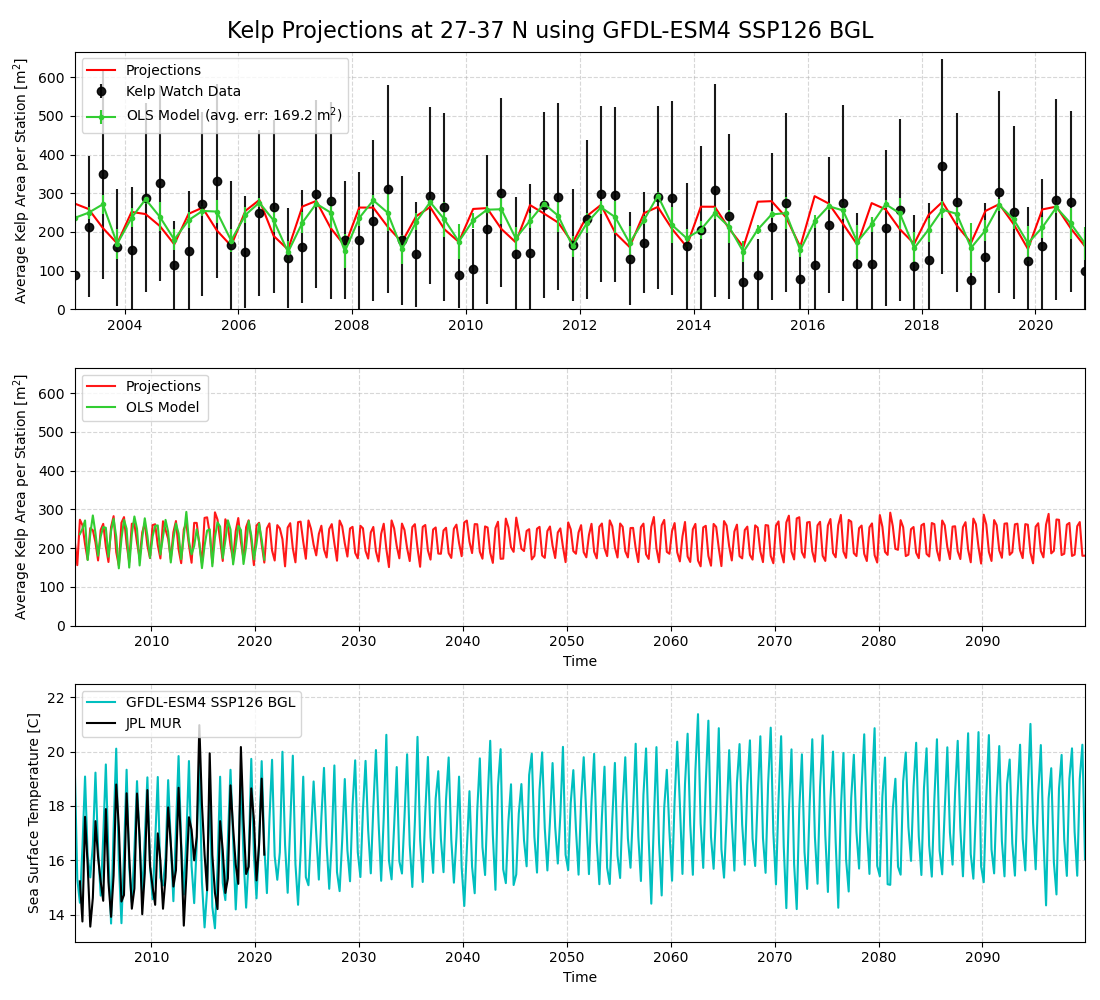
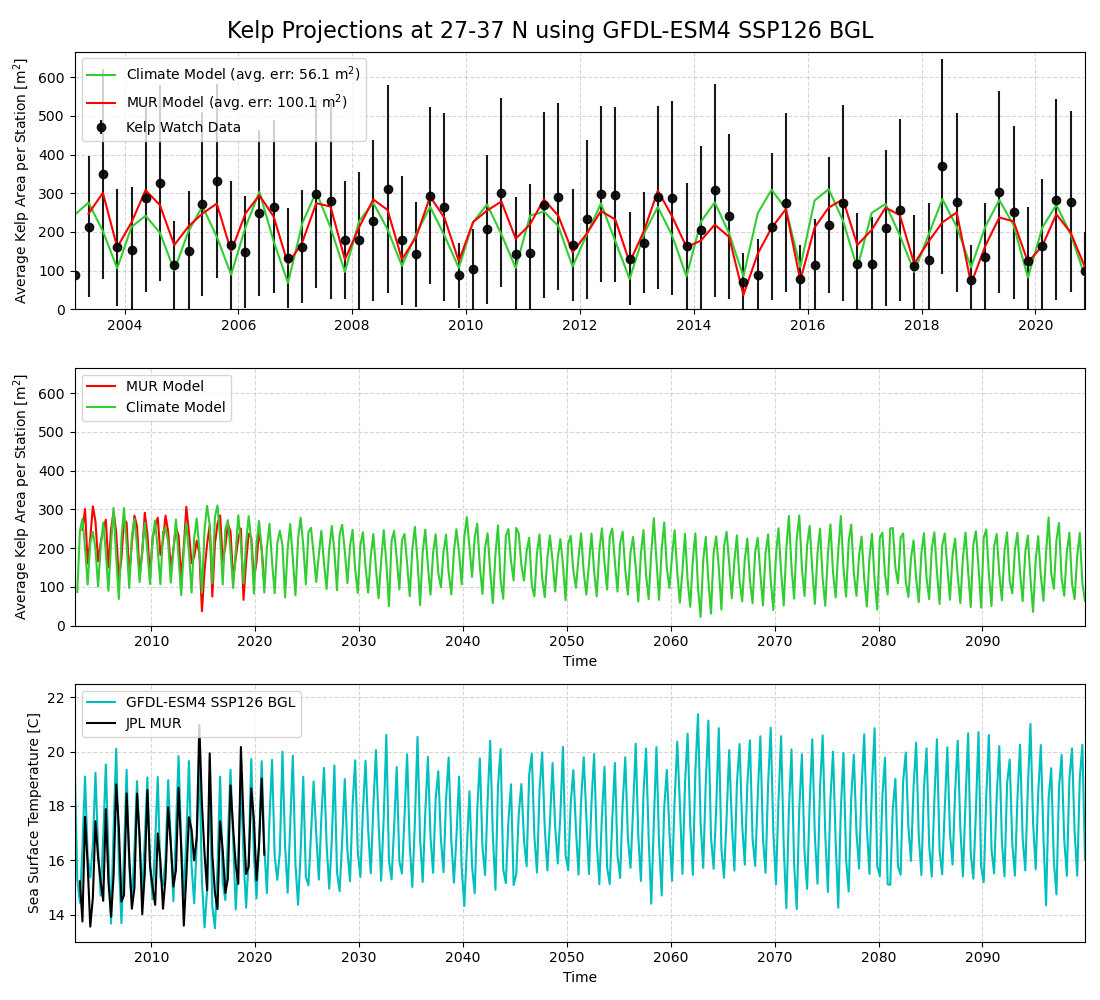
fixed netcdf file for projection

diff --git a/regressors_predict.py b/regressors_predict.py
@@ -1,12 +1,14 @@
 import pickle
 import argparse
 import numpy as np
-import statsmodels.api as sm
-import matplotlib.pyplot as plt
-from sklearn.neural_network import MLPRegressor
-from scipy.spatial import cKDTree
 import xarray as xr
 from tqdm import tqdm
+import statsmodels.api as sm
+import matplotlib.pyplot as plt
+from scipy.spatial import cKDTree
+from scipy.interpolate import interp1d
+from sklearn.neural_network import MLPRegressor
+from create_interpolated_sst_sim import NearestNeighbor
 
 if __name__ == "__main__":
     # argparse for input filepath
@@ -16,7 +18,7 @@ if __name__ == "__main__":
                         default="Data/kelp_metrics_27_37.pkl")
     parser.add_argument('-fs', '--file_path_sim', type=str, 
                         help='path to input metrics file', 
-                        default="Data/kelp_metrics_sim_27_37_CanESM5_ssp585_BGL.pkl")
+                        default="Data/kelp_metrics_sim_27_37_GFDL-ESM4_ssp585_BGL.pkl")
     #model type
     parser.add_argument('-m', '--model', type=str, 
                         help='model type (OLS or MLP)',
@@ -26,6 +28,12 @@ if __name__ == "__main__":
                         help='use sunlight as input feature')
     
     args = parser.parse_args()
+
+    # extract climate model, scenario, and scaling from file_path_sim
+    parts = args.file_path_sim.split('_')
+    climate_scenario = parts[-2] # ssp585
+    climate_model = parts[-3] # GFDL-ESM4
+    scaling = parts[-1].split('.')[0]
 
     # load data from disk
     with open(args.file_path, 'rb') as f:
@@ -47,30 +55,34 @@ if __name__ == "__main__":
 
     if args.sunlight:
         features = [
-            time, # days, 0-365*20
+            #time, # days, 0-365*20
             data['sunlight'], # SUNLIGHT
+            data['temp'] - 273.15,
             data['temp_lag']-273.15,
             data['temp_lag2']-273.15,
             np.ones(len(time)) # w_1 * x_1 + w_2 * x_2 + ... + w_n * x_n + b
         ]
 
         feature_names = [
-            'time',
+            #'time',
             'sunlight', # SUNLIGHT
+            'temp',
             'temp_lag',
             'temp_lag2',
             'bias'
         ]
     else:
         features = [
-            time, # days, 0-365*20
+            #time, # days, 0-365*20
+            data['temp'] - 273.15,
             data['temp_lag']-273.15,
             data['temp_lag2']-273.15,
             np.ones(len(time)) # w_1 * x_1 + w_2 * x_2 + ... + w_n * x_n + b
         ]
 
         feature_names = [
-            'time',
+            #'time',
+            'temp',
             'temp_lag',
             'temp_lag2',
             'bias'
@@ -101,30 +113,34 @@ if __name__ == "__main__":
 
         # construct features
         features = [
-            time_sim, # days
+            #time_sim, # days
             data_sim['sunlight'], # SUNLIGHT
+            data_sim['temp'],
             data_sim['temp_lag'],
             data_sim['temp_lag2'],
             np.ones(len(time_sim)) # w_1 * x_1 + w_2 * x_2 + ... + w_n * x_n + b
         ]
 
         feature_names = [
-            'time',
+            #'time',
             'sunlight', # SUNLIGHT
+            'temp',
             'temp_lag',
             'temp_lag2',
             'bias'
         ]
     else:
         features = [
-            time_sim, # days
+            #time_sim, # days
+            data_sim['temp'],
             data_sim['temp_lag'],
             data_sim['temp_lag2'],
             np.ones(len(time_sim)) # w_1 * x_1 + w_2 * x_2 + ... + w_n * x_n + b
         ]
 
         feature_names = [
-            'time',
+            #'time',
+            'temp',
             'temp_lag',
             'temp_lag2',
             'bias'
@@ -133,11 +149,11 @@ if __name__ == "__main__":
     X_test = np.array(features).T
 
     # remove nans
-    nanmask_test = np.isnan(data_sim['temp_lag']) | np.isnan(data_sim['temp_lag2'])
+    nanmask_test = np.isnan(data_sim['temp_lag']) | np.isnan(data_sim['temp_lag2']) | np.isnan(data_sim['temp'])
     X_test = X_test[~nanmask_test]
     time_sim = time_sim[~nanmask_test]
     time_sim_dt = time_sim_dt[~nanmask_test]
-    print(len(time_sim))
+    print(f"Samples: {len(X)} Train, {len(X_test)} Test")
 
     # # compute correlation coefficient
     # for i in range(X.shape[1]-1):
@@ -157,7 +173,9 @@ if __name__ == "__main__":
 
     if args.model.lower() == 'ols':
         # fit a linear model to the data with OLS
-        res = sm.OLS(y, X).fit()
+        #res = sm.OLS(y, X).fit()
+        # add some regularization
+        res = sm.OLS(y, X).fit_regularized(alpha=0.001, L1_wt=0.1)
         coeffs = res.params
         y_ols_train = np.dot(X, coeffs)
         y_ols_test = np.dot(X_test, coeffs)
@@ -232,6 +250,22 @@ if __name__ == "__main__":
     slope_test, intercept_test = np.polyfit(utime_test, mean_ols_test, 1)
     print(f"Slope: {slope_test:.5f} C / year")
 
+    # slope between lag_temperature and kelp
+    #slope_kelp, intercept_kelp = np.polyfit(np.roll(mean_sst_train-273.15, 1)[1:], mean_ols_train[1:], 1)
+    # mur trend
+    slope_kelp, intercept_kelp = np.polyfit(np.roll(mean_sst_train-273.15, 1)[1:], bmean[1:], 1)
+
+    print(f"Slope: {slope_kelp:.5f} m^2 / C")
+
+    # mean_sst_test
+    kelp_projection = mean_sst_test * slope_kelp  + intercept_kelp
+    kelp_train = (mean_sst_train-273.15) * slope_kelp + intercept_kelp
+
+    # MSE kelp + ols
+    mse_kelp = np.mean(np.abs(bmean - mean_ols_train))
+    mse_projection = np.mean(np.abs(bmean - kelp_projection[:72]))
+    mse_test = np.mean(np.abs(bmean - mean_ols_test[:72]))
+    mse_train = np.mean(np.abs(bmean - kelp_train))
 
     # plot the data
     fig, ax = plt.subplots(3, 1, figsize=(11, 10))
@@ -240,24 +274,24 @@ if __name__ == "__main__":
     lat = float(args.file_path_sim.split('_')[3])
     lon = float(args.file_path_sim.split('_')[4].split('.')[0])
     # extract type of model from fs
-    climate_model = args.file_path_sim.split('_')[-2]
-    climate_sim = args.file_path_sim.split('_')[-3]
-    scaling = args.file_path_sim.split('_')[-1].split('.')[0]
-    fig.suptitle(f"Kelp Projections at {lat:.0f}-{lon:.0f} N using {climate_sim} {climate_model.upper()} {scaling.upper()}", fontsize=16)
+    fig.suptitle(f"Kelp Projections at {lat:.0f}-{lon:.0f} N using {climate_model} {climate_scenario.upper()} {scaling.upper()}", fontsize=16)
     ax[0].errorbar(utime_dt, bmean, yerr=bstd, fmt='o', color='black', label='Kelp Watch Data',alpha=0.90)
-    ax[0].plot(utime_test_dt, mean_ols_test, ls='-', color='red', label='Projections')
-    ax[0].errorbar(utime_train_dt, mean_ols_train, yerr=std_ols_train, fmt='.', ls='-', color='limegreen', label=rf'{args.model.upper()} Model (avg. err: {abs_err_ols_train:.1f} m$^2$)')
 
-    #ax[0].errorbar(utime_train_dt, mean_ols_train, yerr=std_ols_train, fmt='.', ls='-',alpha=0.33, color='blue')
+    #ax[0].plot(utime_test_dt, mean_ols_test, ls='-', color='red', label=f'Projections (avg. err: {mse_test:.1f} m$^2$)',alpha=0.9)
+    #ax[0].errorbar(utime_train_dt, mean_ols_train, yerr=std_ols_train, fmt='.', ls='-', color='limegreen', label=rf'{args.model.upper()} Model (avg. err: {abs_err_ols_train:.1f} m$^2$)')
+    ax[0].plot(utime_test_dt[1:], kelp_projection[:-1], ls='-', color='limegreen', label=f'Climate Model (avg. err: {mse_projection:.1f} m$^2$)')
+    ax[0].plot(utime_train_dt[1:], kelp_train[:-1],  ls='-', color='red', label=f'MUR Model (avg. err: {mse_train:.1f} m$^2$)')
     ax[0].legend(loc='upper left')
-    #ax[0].set_xlabel("Time")
     ax[0].set_ylabel(r"Average Kelp Area per Station [m$^2$]")
     ax[0].grid(True,ls='--',alpha=0.5)
     ax[0].set_ylim([0,666])
     ax[0].set_xlim([np.min(utime_dt), np.max(utime_dt)])
 
-    ax[1].plot(utime_test_dt, mean_ols_test, ls='-', color='red', label='Projections',alpha=0.9)
-    ax[1].plot(utime_train_dt, mean_ols_train,  ls='-', color='limegreen', label=f'{args.model.upper()} Model')
+    #ax[1].plot(utime_dt, bmean, ls='-', color='black', label='Kelp Watch Data',alpha=0.90)
+    #ax[1].plot(utime_test_dt, mean_ols_test, ls='-', color='red', label='Projections',alpha=0.9)
+    #ax[1].plot(utime_train_dt, mean_ols_train,  ls='-', color='limegreen', label=f'{args.model.upper()} Model')
+    ax[1].plot(utime_train_dt[1:], kelp_train[:-1], ls='-', color='red', label=f'MUR Model')
+    ax[1].plot(utime_test_dt[1:], kelp_projection[:-1], ls='-', color='limegreen', label=f'Climate Model')
     ax[1].set_ylim([0,666])
     ax[1].grid(True,ls='--',alpha=0.5)
     ax[1].set_xlabel("Time")
@@ -266,7 +300,7 @@ if __name__ == "__main__":
     ax[1].set_xlim([np.min(utime_test_dt), np.max(utime_test_dt)])
 
     # plot temperature time series for each location
-    ax[2].plot(utime_test_dt, mean_sst_test, 'c-', label=f'{climate_sim} {climate_model.upper()} {scaling.upper()}')
+    ax[2].plot(utime_test_dt, mean_sst_test, 'c-', label=f'{climate_model} {climate_scenario.upper()} {scaling.upper()}')
     ax[2].plot(utime_train_dt, mean_sst_train-273.15, 'k-', label=f'JPL MUR')
     ax[2].set_xlabel('Time')
     ax[2].set_ylabel('Sea Surface Temperature [C]')
@@ -283,21 +317,20 @@ if __name__ == "__main__":
     print(f"Saved {file_name}")
     plt.close()
 
-    dude()
+    # TODO create a fill between region for projection uncertainties
+    # TODO add slopes to the plot
 
     # create nearest neighbor algorithm to map time, lat, lon to kelp
-    tree = cKDTree(np.array([time_sim, data_sim['lat'][~nanmask_test], data_sim['lon'][~nanmask_test]]).T)
-    def predict_kelp(time, lat, lon):
-        dist, idx = tree.query(np.array([time, lat, lon]).T)
-        if args.sunlight:
-            X_test = np.array([time, data_sim['sunlight'][idx], data_sim['temp_lag'][idx], data_sim['temp_lag2'][idx], 1])
-        else:
-            X_test = np.array([time, data_sim['temp_lag'][idx], data_sim['temp_lag2'][idx], 1])
-        return np.dot(X_test, coeffs)    
+    sim_lat = data_sim['lat'][~nanmask_test]
+    sim_lon = data_sim['lon'][~nanmask_test]
+    sim_sunlight = data_sim['sunlight'][~nanmask_test]
+    sim_temp = data_sim['temp'][~nanmask_test]
+    sim_temp_lag = data_sim['temp_lag'][~nanmask_test]
+    sim_temp_lag2 = data_sim['temp_lag2'][~nanmask_test]
 
     # days since min date
-    times = np.unique(data_sim['time']).astype('datetime64[D]')
-    times = times - np.min(time)
+    times_dt = np.unique(data_sim['time']).astype('datetime64[D]')
+    times = times_dt - np.min(times_dt)
     times = times.astype(int)
 
     lat = data_sim['lat']
@@ -306,11 +339,51 @@ if __name__ == "__main__":
     latlon = np.array([lat, lon]).T
     latlon = np.unique(latlon, axis=0)
 
-    kelp = np.zeros((len(times), len(latlon)))
+    temp = np.zeros((len(times), len(latlon)))
+
+    try:
+        # faster to interpolate from netcdf file then to use KDTree
+        sim_data = xr.open_dataset(f"Data/tos_Omon_{climate_model}_{climate_scenario}_r1i1p1f1_gr_2002-2100.downscaled_{scaling}.unique.nc", decode_times=False)
+        sim_times =  np.datetime64('1900-01-16T12:00:00') + np.array(sim_data.time.values, dtype='timedelta64[h]')
+        sim_sst = NearestNeighbor(sim_data.lat.values, sim_data.lon.values, sim_data.sst.values)
+        sim_data.close()
+
+        sim_times_day = sim_times.astype('datetime64[D]')
+        sim_times_day = sim_times_day - np.min(times_dt)
+        sim_times_day = sim_times_day.astype(int)
+    
+        # interpolate temperatures
+        for j, ll in tqdm(enumerate(latlon)):
+            sim_temps = sim_sst(ll[0], ll[1])
+
+            # second order interpolation
+            f_temp = interp1d(sim_times_day, sim_temps, kind='quadratic', fill_value='extrapolate')
+            temp[:,j] = f_temp(times)
+
+    except Exception as ex:
+        print(ex)
+        print("Using KDTree to interpolate temperature")
+        # nearest neighbor interpolation
+        tree_temp = cKDTree(np.array([time_sim, sim_lat, sim_lon]).T)
+        def predict_temp(time, lat, lon):
+            dist, idx = tree_temp.query(np.array([time, lat, lon]).T)
+            return sim_temp[idx]
+
+        for i, t in tqdm(enumerate(times)):
+            for j, ll in enumerate(latlon):
+                temp[i,j] = predict_temp(t, ll[0], ll[1])
+
+    # use temperature to predict kelp
     print(len(times), len(latlon))
-    for i, t in tqdm(enumerate(times)):
-        for j, ll in enumerate(latlon):
-            kelp[i,j] = predict_kelp(t, ll[0], ll[1])
+    kelp = np.zeros((len(times), len(latlon)))
+    # loop over locations
+    for j, ll in tqdm(enumerate(latlon)):
+        # create lagged temperature
+        temp_lag = np.roll(temp[:,j], 1)
+        # average data from different years but same quarter
+        temp_lag[0] = (temp[0,j] + temp[4,j] )/ 2
+        # predict kelp
+        kelp[:, j] = slope_kelp * temp[:,j] + intercept_kelp
 
     # create xarray dataset
     # use xarray to save the data in the format
@@ -323,17 +396,22 @@ if __name__ == "__main__":
     #     year        (time) int32 1984 1984 1984 1984 1985 ... 2022 2022 2022 2022
     #     quarter     (time) int16 1 2 3 4 1 2 3 4 1 2 3 4 ... 1 2 3 4 1 2 3 4 1 2 3 4
     #     biomass     (time, station) float64 ...
+    #     temp        (time, station) float64 ...
 
     ds = xr.Dataset(
         data_vars = {
             'latitude': (['station'], latlon[:,0]),
             'longitude': (['station'], latlon[:,1]),
-            'year': (['time'], times // 365 + 1984),
-            'quarter': (['time'], times % 365 // 91 + 1),
-            'biomass': (['time', 'station'], kelp)
+            'year': (['time'], times_dt.astype('datetime64[Y]').astype(int)),
+            'quarter': (['time'], times_dt.astype('datetime64[M]').astype(int) % 12 // 3 + 1),
+            'biomass': (['time', 'station'], kelp),
+            'temp': (['time', 'station'], temp),
+            'slope': (['feature'], [slope_kelp]),
+            'intercept': (['feature'], [intercept_kelp]),
         },
         coords = {
-            'time': times
+            'time': times_dt
         }
     )
+
     ds.to_netcdf(args.file_path_sim.replace('.pkl', '_regressors.nc'))

diff --git a/plot_lag_correlation.py b/plot_lag_correlation.py
@@ -151,3 +151,6 @@ if __name__ == "__main__":
     fig, ax = lag_correlation(data)
     plt.savefig(args.file_path.replace('.pkl', '_lag_correlation.png'))
     plt.show()
+
+
+    # TODO monte carlo the results to get a best-fit line and error bars

diff --git a/README.md b/README.md
@@ -4,6 +4,8 @@ An ecological forecasting model for monitoring the biomass availability in kelp 
 
 ![](Figures/kelp_forest.jpg)
 
+![](Data/overplot_GFDL-ESM4_BGL.png)
+
 ## Installation + Setup
 
 1) Clone repo + setup a conda environment
@@ -61,7 +63,8 @@ The metrics script will create a new file called `kelp_metrics.pkl` which contai
 | ![]() | ![](Data/kelp_metrics_27_37_regressors.png) |
 | `regressors_predict.py` |  Use the trained regression models to predict the abundance of Kelp using features from `kelp_metrics_sim.pkl`. |
 | | ![](Data/kelp_OLS_sim_27_37_CanESM5_ssp126_BGL_regressors.png) | 
-
+| `overplot_projection.py` | Overplot the projections from the regression models using features from `kelp_metrics_sim.pkl`. |
+| | ![](Data/overplot_GFDL-ESM4_BGL.png) |
 
 
 # Tests for statistical significance
@@ -157,38 +160,6 @@ Follow these steps to create a new linear regression model from Kelp Watch + MUR
 4)	Fit a linear regression model and perform a projection on 
 
     `python regressors_predict.py -f Data/kelp_metrics_27_37.pkl -fs Data/kelp_metrics_sim_27_37_ssp126_BGL.pkl`
-
-The sunlight feature can be toggled through the command line when running `regressors_predict.py`. Below are a few results using different regression models and different climate models.
--  OLS - Ordinary Least Squares
--  MLP - Multi-Layer Perceptron
-
-| Without sunlight feature (OLS) | With sunlight feature (OLS) |
-|---|---|
-| ![](Data/kelp_OLS_sim_27_37_CanESM5_ssp585_BGL_regressors.png) | ![](Data/kelp_OLS_sim_27_37_CanESM5_ssp126_BGL_sunlight_regressors.png) |
-| ![](Data/kelp_OLS_sim_27_37_CanESM5_ssp126_BGL_regressors.png) | ![](Data/kelp_OLS_sim_27_37_CanESM5_ssp585_BGL_sunlight_regressors.png) |
-| ![](Data/kelp_OLS_sim_27_37_GFDL-ESM4_ssp126_BGL_regressors.png) | ![](Data/kelp_OLS_sim_27_37_GFDL-ESM4_ssp126_BGL_sunlight_regressors.png) |
-| ![](Data/kelp_OLS_sim_27_37_GFDL-ESM4_ssp585_BGL_regressors.png) | ![](Data/kelp_OLS_sim_27_37_GFDL-ESM4_ssp585_BGL_sunlight_regressors.png) |
-
-
-| Without sunlight feature (MLP) | With sunlight feature (MLP) |
-|---|---|
-| ![](Data/kelp_mlp_sim_27_37_CanESM5_ssp585_BGL_regressors.png) | ![](Data/kelp_mlp_sim_27_37_CanESM5_ssp126_BGL_sunlight_regressors.png) |
-| ![](Data/kelp_mlp_sim_27_37_CanESM5_ssp126_BGL_regressors.png) | ![](Data/kelp_mlp_sim_27_37_CanESM5_ssp585_BGL_sunlight_regressors.png) |
-| ![](Data/kelp_mlp_sim_27_37_GFDL-ESM4_ssp126_BGL_regressors.png) | ![](Data/kelp_mlp_sim_27_37_GFDL-ESM4_ssp126_BGL_sunlight_regressors.png) |
-| ![](Data/kelp_mlp_sim_27_37_GFDL-ESM4_ssp585_BGL_regressors.png) | ![](Data/kelp_mlp_sim_27_37_GFDL-ESM4_ssp585_BGL_sunlight_regressors.png) |
-
-In all cases, when including sunlight as a feature, it gets a slightly better training error on our data but imposes this large negative slope compared to just the temperature-only model.
-
-### Varying the Climate model
-
-These plots show various projections without the sunlight feature. These plots use no sunlight feature and are made with the linear regression model. Within our region of interest we're assuming the same species of giant kelp. The range of temperatures can vary from about 14-23C between ~27-37N along the coast of California. The kelp seems to be responding well to the temperature changes in the simulation data. The temperature fluctuations vary by about 8C in the simulation data and 9C in the JPL Mur observations. Even projecting with the worst-case emission scenario the kelp remains relatively unphased by the temperature fluctations. The simulation data maxes out at a temperature around 22C while the measurements the regression model was trained on max out at 23C.
-
-| CanESM5 | GFDL-ESM4 |
-| --- | --- |
-| ![](Data/kelp_OLS_sim_27_37_CanESM5_ssp126_BGL_regressors.png) | ![](Data/kelp_OLS_sim_27_37_GFDL-ESM4_ssp126_BGL_regressors.png) |
-| ![](Data/kelp_OLS_sim_27_37_CanESM5_ssp585_BGL_regressors.png) | ![](Data/kelp_OLS_sim_27_37_GFDL-ESM4_ssp585_BGL_regressors.png) |
-
-There is a little to no difference between the projections from the two climate models. The kelp seems to be responding well to the temperature changes in every climate scenario. I think this speaks to the resilience of the plant. The model used for these is ordinary least squards.
 
 # Datasets
 
